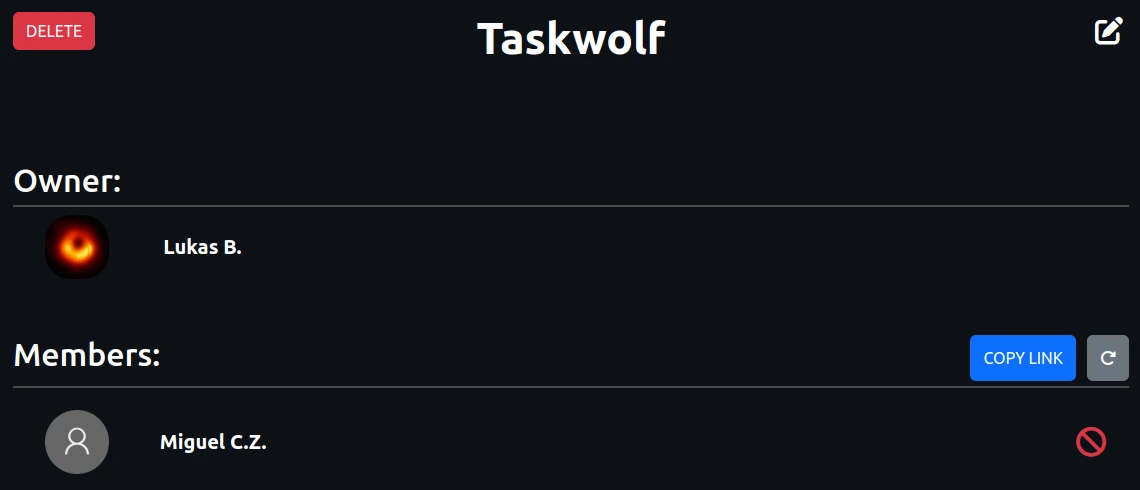
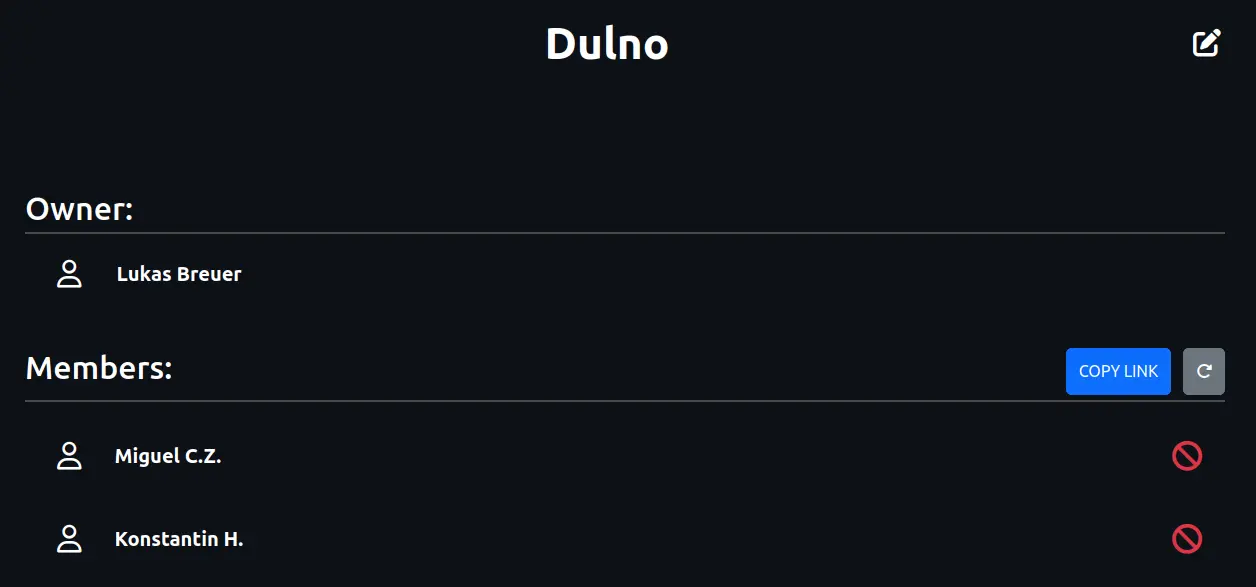
Update product page

diff --git a/home/templates/product.html b/home/templates/product.html
@@ -11,9 +11,6 @@
           <h1 id="product-slogan"><b>{% trans 'home.product.slogan' %}</b></h1>
           <h5 class="text-center mt-4 mb-1">{% trans 'home.product.description.1' %}</h5>
           <h5 class="text-center">{% trans 'home.product.description.2' %}</h5>
-          <div id="product-video-container">
-            <button id="product-video-button" onclick="window.open('https://www.youtube.com/watch?v=ZCUOXfwDnx4');"></button>
-          </div>
         </div>
         <img id="product-logo" src="{% static 'img/logo.webp' %}">
       </div>
@@ -78,8 +75,8 @@
         <div id="product-process-content-text">
           <h3 class="product-content-text-headline">{% trans 'home.product.processes.headline' %}</h3>
           <h1 class="product-content-text-slogan">{% trans 'home.product.processes.slogan' %}</h1>
-          <p>{% trans 'home.product.processes.description.1' %}</p>
-          <p class="mb-5">{% trans 'home.product.processes.description.2' %}</p>
+          <p class="text-justify">{% trans 'home.product.processes.description.1' %}</p>
+          <p class="text-justify mb-5">{% trans 'home.product.processes.description.2' %}</p>
         </div>
         <img id="product-process-content-image" src="{% static 'img/home/process.gif' %}">
       </div>
@@ -94,7 +91,7 @@
        <div id="product-organization-content-text" class="product-animation-left">
          <h3 class="product-content-text-headline">{% trans 'home.product.organizations.headline' %}</h3>
          <h1 class="product-content-text-slogan">{% trans 'home.product.organizations.slogan' %}</h1>
-         <p>{% trans 'home.product.organizations.description' %}</p>
+         <p class="text-justify">{% trans 'home.product.organizations.description' %}</p>
          <ul class="product-content-text-list">
            <li>
              <h5><b>{% trans 'home.product.organizations.owner.headline' %}</b></h5>
@@ -120,8 +117,8 @@
         <div id="product-device-content-text" class="product-animation-right">
           <h3 class="product-content-text-headline">{% trans 'home.product.devices.headline' %}</h3>
           <h1 class="product-content-text-slogan">{% trans 'home.product.devices.slogan' %}</h1>
-          <p>{% trans 'home.product.devices.description.1' %}</p>
-          <p>{% trans 'home.product.devices.description.2' %}</p>
+          <p class="text-justify">{% trans 'home.product.devices.description.1' %}</p>
+          <p class="text-justify">{% trans 'home.product.devices.description.2' %}</p>
         </div>
       </div>
     </div>
@@ -138,32 +135,44 @@
           <p class="text-center">{% trans 'home.product.advanced.description' %}</p>
           <ul id="product-advanced-functions">
             <li>
-              <i class="fa-solid fa-arrow-right-arrow-left"></i>
-              <h4>{% trans 'home.product.advanced.transformation.headline' %}</h4>
-              <p>{% trans 'home.product.advanced.transformation.description' %}</p>
+              <div class="product-advanced-functions-icon">
+                <i class="fa-solid fa-user"></i>
+              </div>
+              <h4>{% trans 'home.product.advanced.account.headline' %}</h4>
+              <p>{% trans 'home.product.advanced.account.description' %}</p>
             </li>
             <li>
-              <i class="fa-solid fa-clock-rotate-left"></i>
+              <div class="product-advanced-functions-icon">
+                <i class="fa-solid fa-clock-rotate-left"></i>
+              </div>
               <h4>{% trans 'home.product.advanced.timeline.headline' %}</h4>
               <p>{% trans 'home.product.advanced.timeline.description' %}</p>
             </li>
             <li>
-              <i class="fa-solid fa-solid fa-filter"></i>
+              <div class="product-advanced-functions-icon">
+                <i class="fa-solid fa-solid fa-filter"></i>
+              </div>
               <h4>{% trans 'home.product.advanced.condition.headline' %}</h4>
               <p>{% trans 'home.product.advanced.condition.description' %}</p>
             </li>
             <li>
-              <i class="material-symbols-outlined">webhook</i>
+              <div class="product-advanced-functions-icon">
+                <i class="fa-solid fa-tower-broadcast"></i>
+              </div>
               <h4>{% trans 'home.product.advanced.webhook.headline' %}</h4>
               <p>{% trans 'home.product.advanced.webhook.description' %}</p>
             </li>
             <li>
-              <i class="material-symbols-outlined">database</i>
+              <div class="product-advanced-functions-icon">
+                <i class="fa-solid fa-database"></i>
+              </div>
               <h4>{% trans 'home.product.advanced.database.headline' %}</h4>
               <p>{% trans 'home.product.advanced.database.description' %}</p>
             </li>
             <li>
-              <i class="material-symbols-outlined">draft</i>
+              <div class="product-advanced-functions-icon">
+                <i class="fa-solid fa-sheet-plastic"></i>
+              </div>
               <h4>{% trans 'home.product.advanced.template.headline' %}</h4>
               <p>{% trans 'home.product.advanced.template.description' %}</p>
             </li>

diff --git a/static/css/home/product.css b/static/css/home/product.css
@@ -329,7 +329,7 @@ p {
 }
 
 #product-process-content-text {
-  width: min(calc(1000px), 100%);
+  width: min(calc(1100px), 100%);
   margin: auto;
 }
 
@@ -422,15 +422,6 @@ p {
   padding: 20px;
 }
 
-#product-advanced-functions li i {
-  font-size: 28px;
-  border-radius: 50%;
-  background-color: white;
-  aspect-ratio: 1;
-  color: black;
-  padding: 20px;
-}
-
 #product-advanced-functions li h4 {
   margin-top: 8%;
   margin-bottom: 5%;
@@ -439,6 +430,20 @@ p {
 
 #product-advanced-functions li p {
   text-align: left;
+}
+
+.product-advanced-functions-icon {
+  display: flex;
+  justify-content: center;
+  align-items: center;
+  margin: auto;
+  width: 64px;
+  height: 64px;
+  font-size: 28px;
+  border-radius: 50%;
+  background-color: white;
+  aspect-ratio: 1;
+  color: black;
 }
 
 @media (max-width: 1000px) {
@@ -496,4 +501,8 @@ p {
     margin-top: 0;
     margin-bottom: 0;
   }
+}
+
+.text-justify {
+  text-align: justify;
 }
